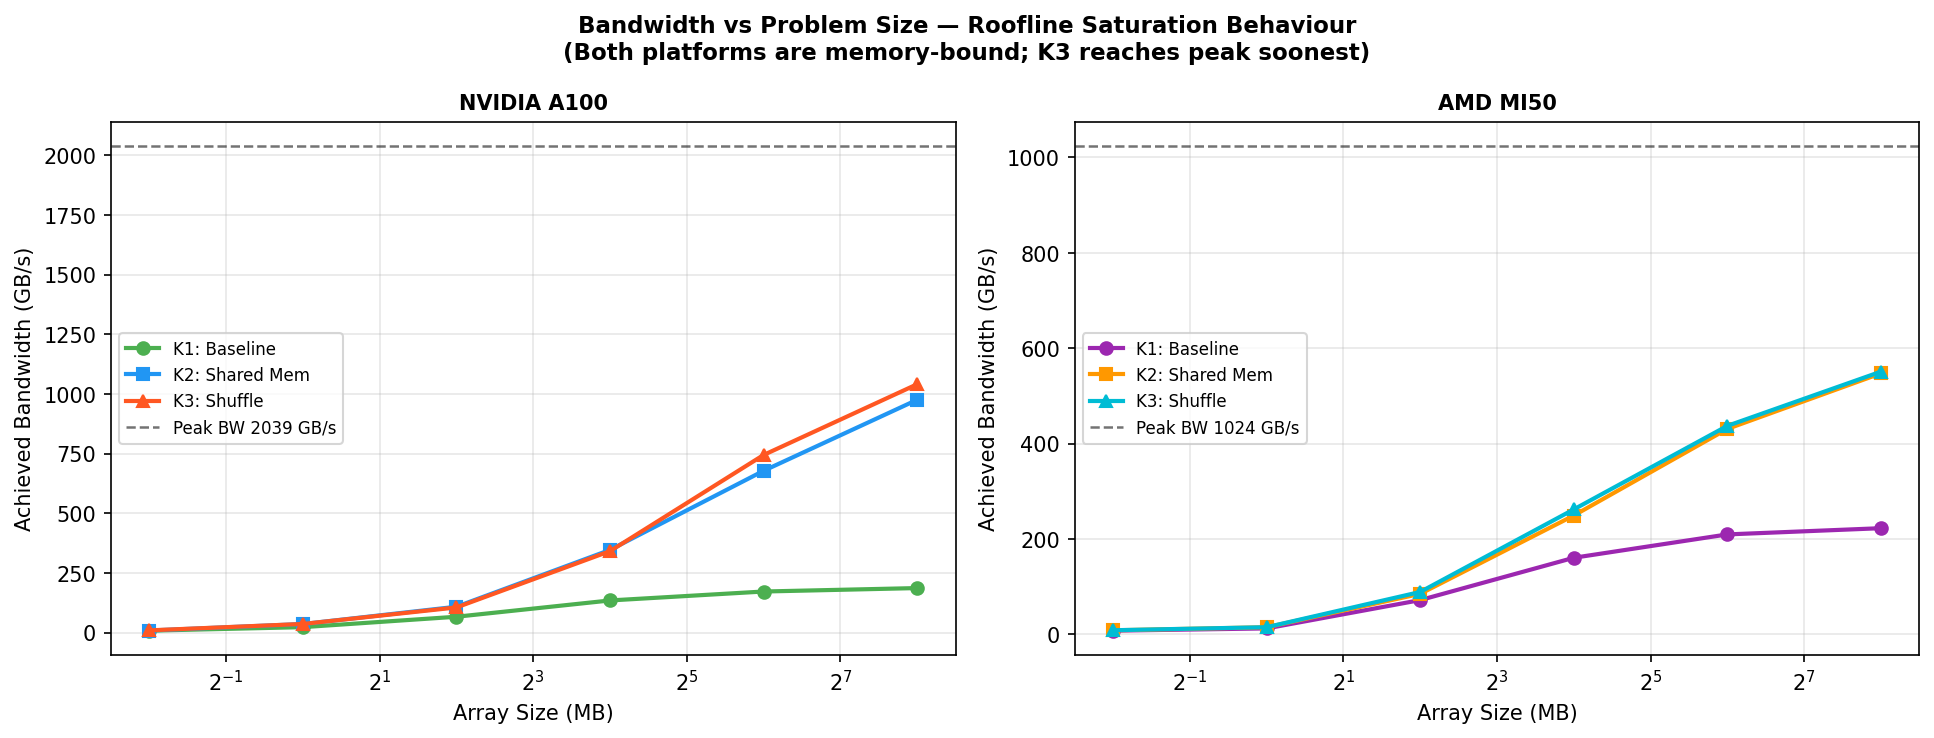
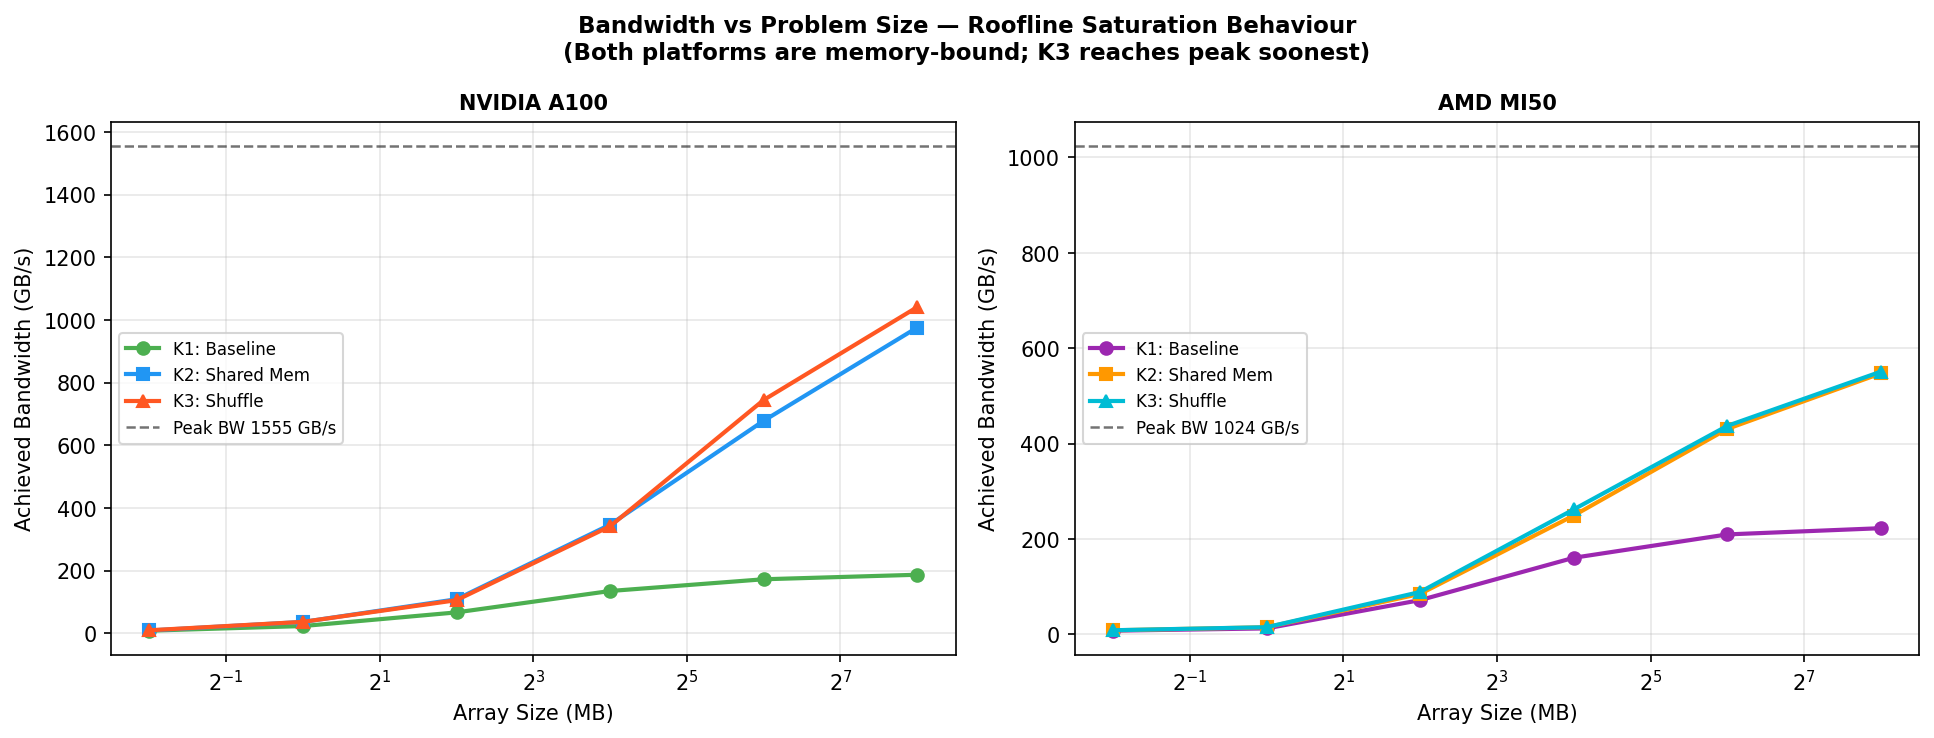
fix: plots data correction

diff --git a/kernels/matrix_transpose/plot_results.py b/kernels/matrix_transpose/plot_results.py
@@ -34,7 +34,7 @@ AMD_COLORS = ["#9C27B0", "#FF9800", "#00BCD4"]   # purple, orange, cyan
 NV_LINE    = "#76b900"   # NVIDIA green
 AMD_LINE   = "#ed1c24"   # AMD red
 
-PEAK_BW  = {"NVIDIA A100": 2039.0, "AMD MI50": 1024.0}   # GB/s
+PEAK_BW  = {"NVIDIA A100": 1555.0, "AMD MI50": 1024.0}   # GB/s
 K_LABELS = ["K1\nBaseline", "K2\nShared Mem", "K3\nShuffle"]
 
 # ── Demo data ──────────────────────────────────────────────────────────
@@ -74,7 +74,7 @@ def fig1_bandwidth(nv, am, out_dir):
     Right panel: % of peak bandwidth     — fair cross-platform comparator
     
     Why % peak is the right metric:
-      A100 peak = 2039 GB/s, MI50 peak = 1024 GB/s.
+    A100 peak = 1555 GB/s, MI50 peak = 1024 GB/s.
       Raw GB/s will always favour A100; % peak shows how well each kernel
       uses the available hardware.
     """
